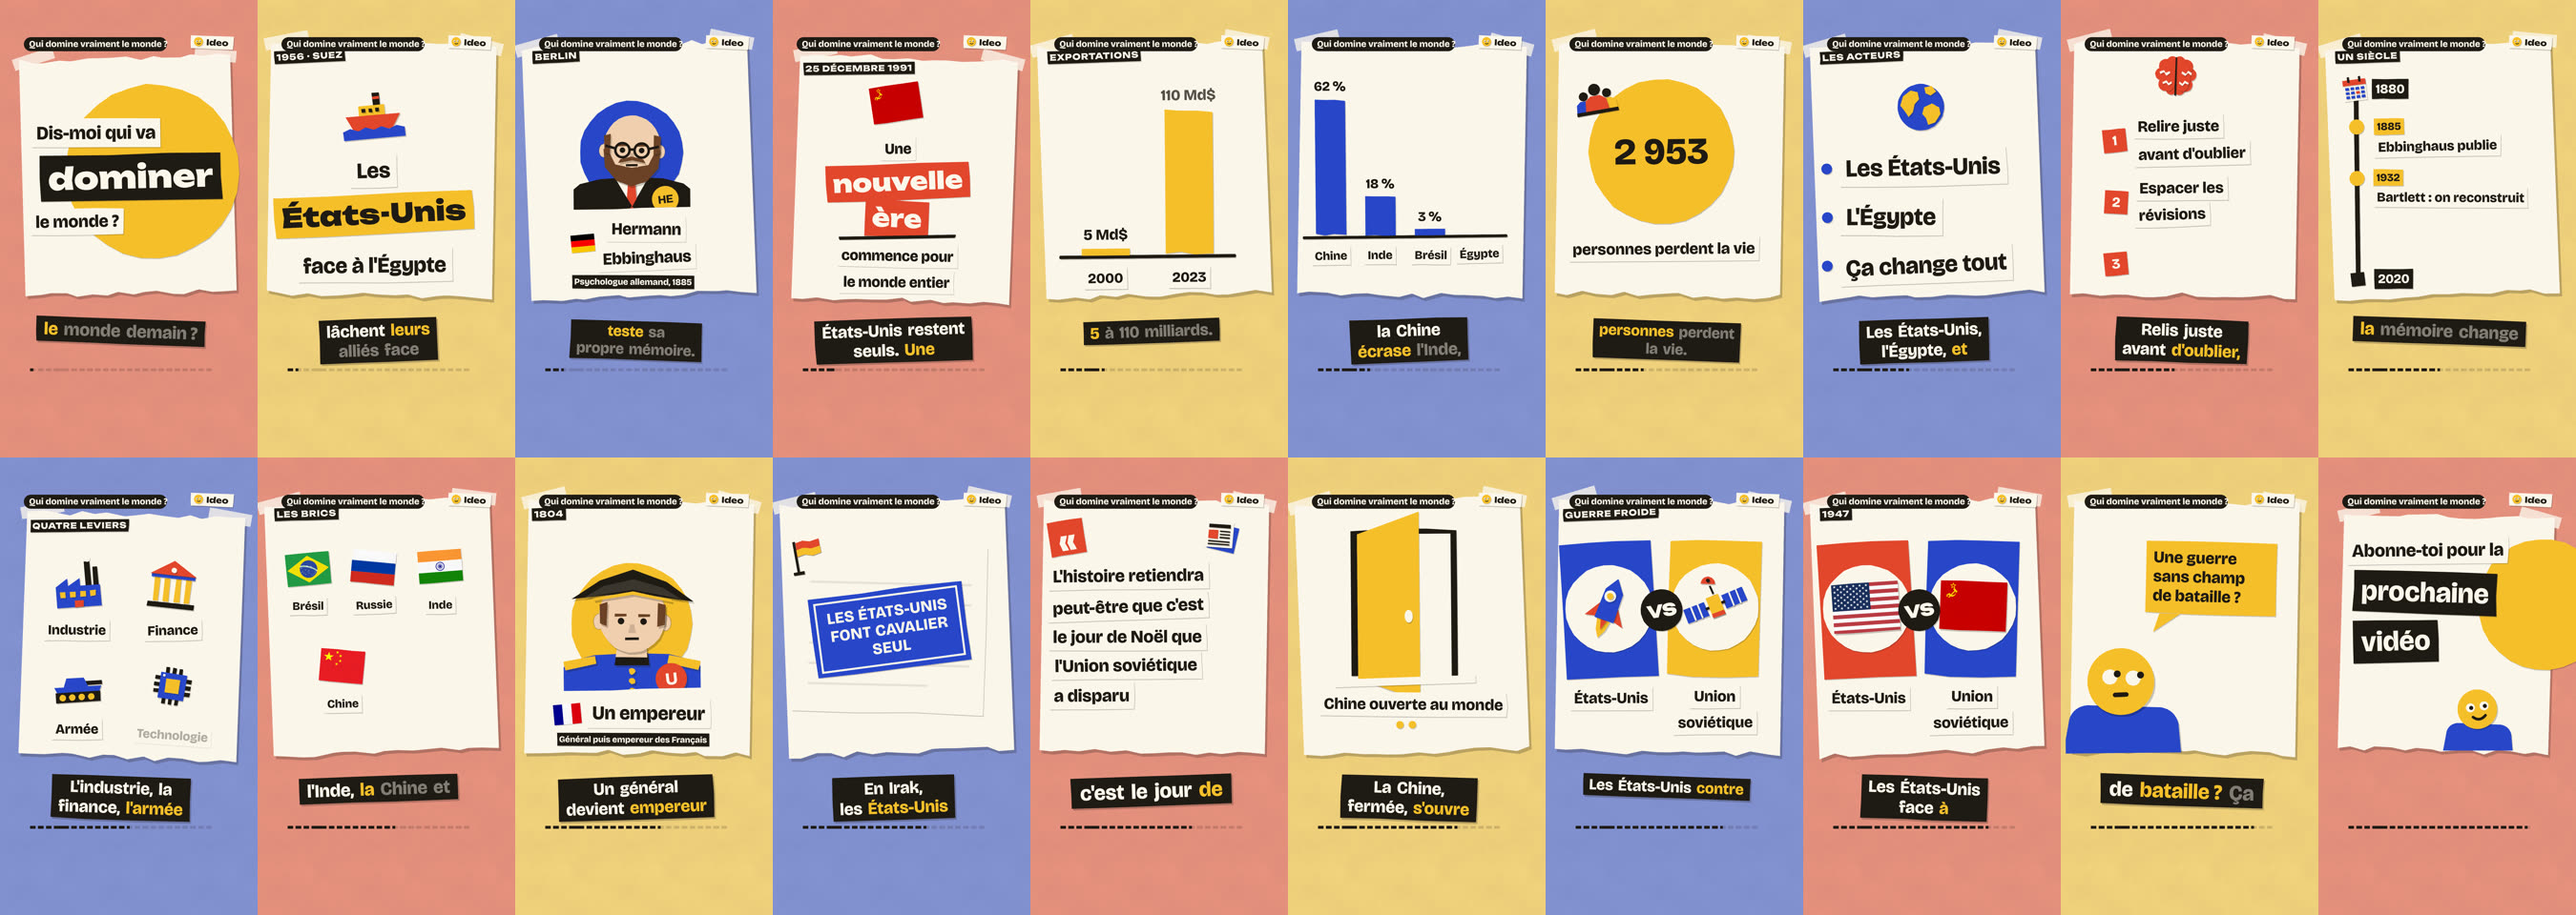
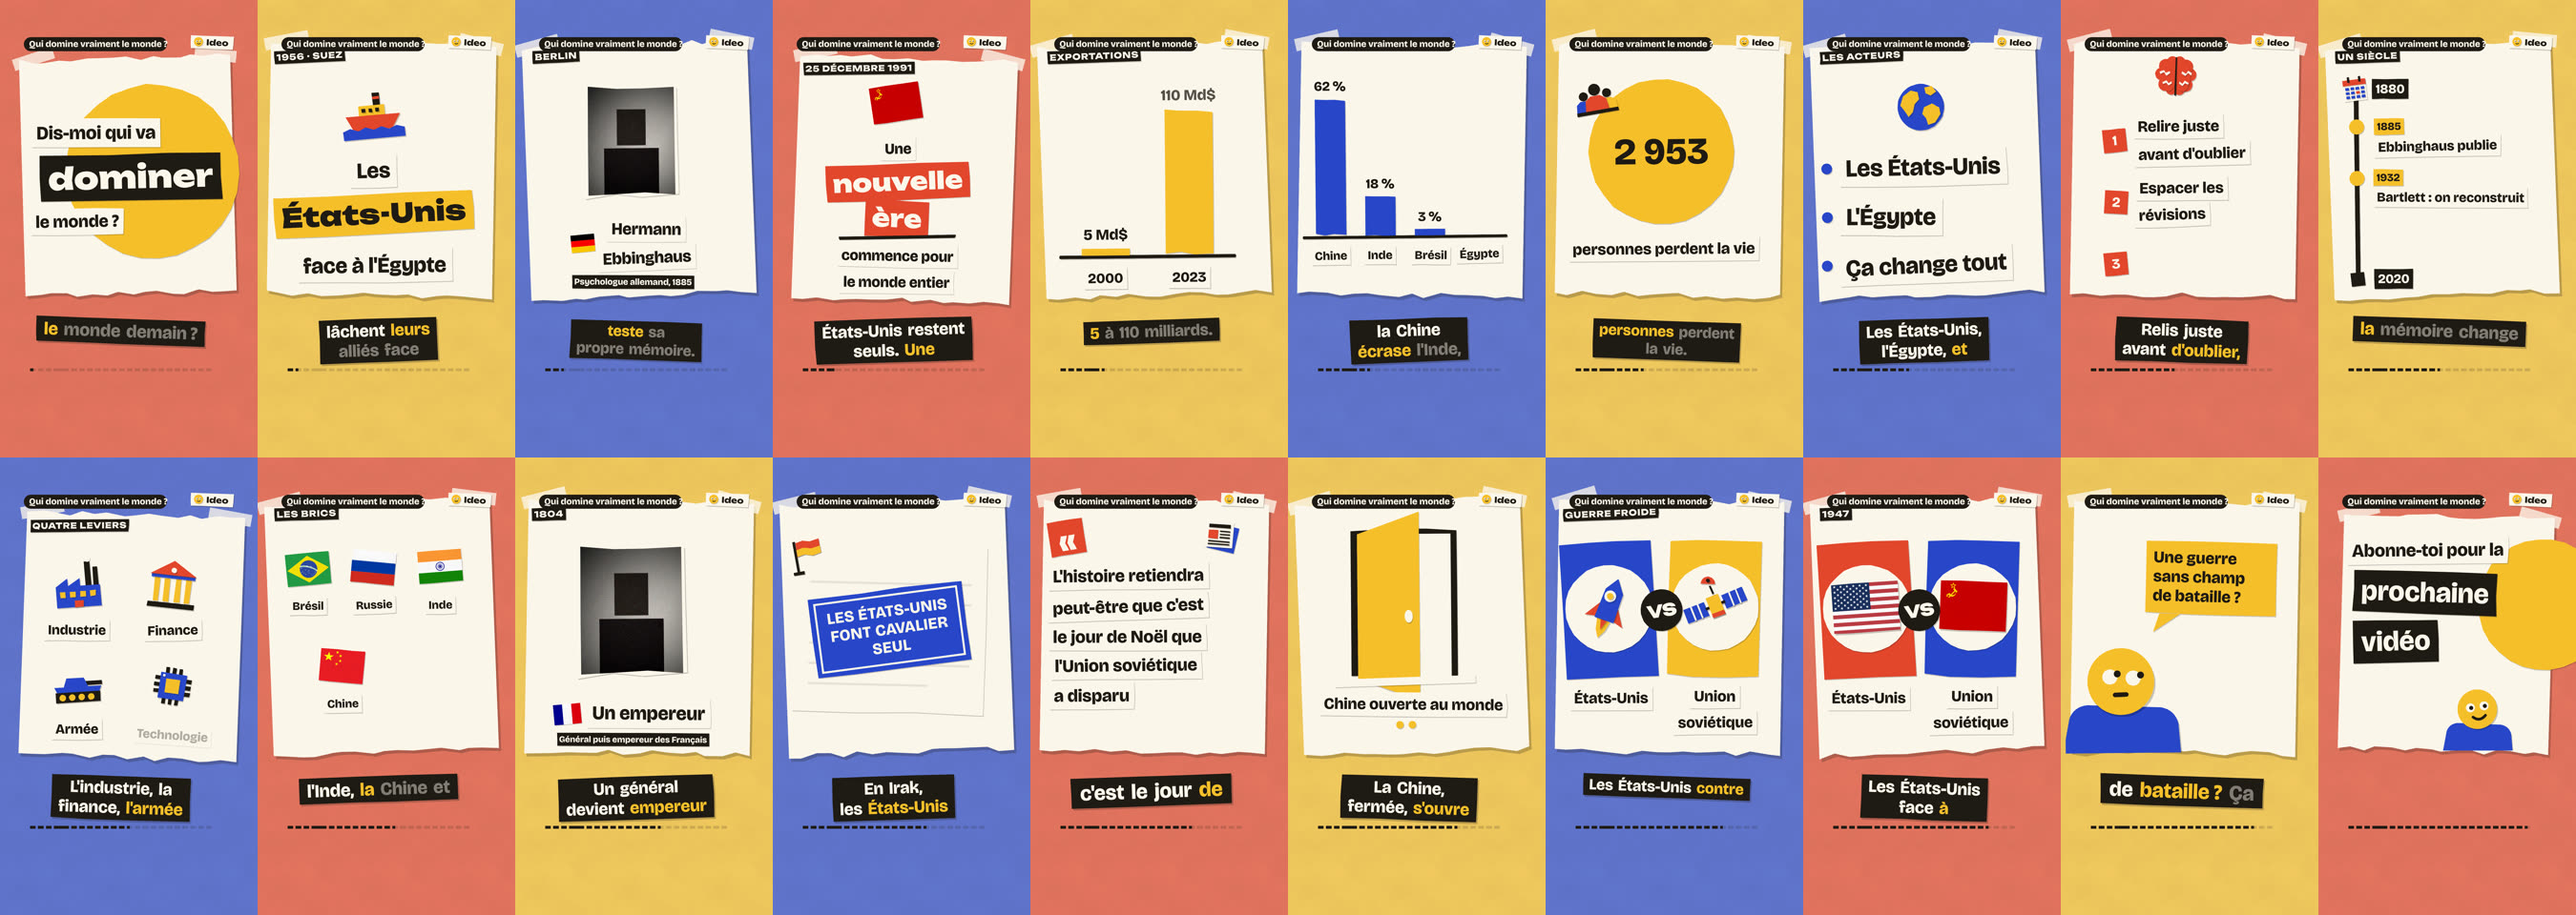
Fond moins pastel et cover correcte avec une vraie photo
Le fond passe de 45 % à 28 % de crème : la couleur de la scène reste
présente sans écraser le texte. Sur la cover, la photo d'une personne
historique était décalée et masquait le titre : elle est maintenant
dimensionnée correctement et épinglée sous la feuille sans la recouvrir.

Claude-Session: https://claude.ai/code/session_01LebPuenWeDcgqCGAEvrEXW

diff --git a/render/src/Cover.tsx b/render/src/Cover.tsx
@@ -87,6 +87,9 @@ export const SHEET_PAD_X = 64;
 export const SHEET_PAD_Y = 84;
 export const HEAD_LINE = 1.02;
 export const ART_OVERLAP = 150;
+export const PHOTO_OVERLAP = 40;
+
+export const artOverlap = (art: ArtKind): number => (art === "photo" ? PHOTO_OVERLAP : ART_OVERLAP);
 export const ART_RIGHT = 40;
 const LABEL_MAX_W = 640;
 
@@ -95,18 +98,20 @@ export const coverHeadFit = (head: string) =>
 
 export const coverSheetHeight = (lines: number, size: number): number => lines * size * HEAD_LINE + 2 * SHEET_PAD_Y;
 
-export const coverLayout = (sheetH: number, artH: number): { sheetY: number; artTop: number } => {
-  const total = sheetH - ART_OVERLAP + artH;
+export const coverLayout = (sheetH: number, artH: number, overlap = ART_OVERLAP): { sheetY: number; artTop: number } => {
+  const total = sheetH - overlap + artH;
   const sheetY = Math.round(Math.max(CROP_TOP, (CROP_TOP + CROP_BOTTOM - total) / 2));
-  return { sheetY, artTop: sheetY + sheetH - ART_OVERLAP };
+  return { sheetY, artTop: sheetY + sheetH - overlap };
 };
 
 const Art: React.FC<{ art: ArtKind; photo?: string | null; picto?: string | null; look?: CoverLook | null; accent: AccentColor }> = ({ art, photo, picto, look, accent }) => {
   const bustLook = React.useMemo(() => lookOf(look ?? {}), [look]);
   if (art === "photo") {
     return (
-      <div style={{ width: PHOTO_W, height: PHOTO_H, transform: `scale(${PHOTO_SCALE})`, transformOrigin: "0 0" }}>
-        <PhotoFrame src={photo as string} seed="cover-photo" />
+      <div style={{ position: "relative", width: PHOTO_W * PHOTO_SCALE, height: PHOTO_H * PHOTO_SCALE }}>
+        <div style={{ position: "absolute", left: 0, top: 0, width: PHOTO_W, height: PHOTO_H, transform: `scale(${PHOTO_SCALE})`, transformOrigin: "0 0" }}>
+          <PhotoFrame src={photo as string} seed="cover-photo" />
+        </div>
       </div>
     );
   }
@@ -139,7 +144,7 @@ export const Cover: React.FC<CoverProps> = ({ title, hook, picto, photo, look, w
   const art = artKind(photo, picto, look);
   const box = artBox(art);
   const sheetH = coverSheetHeight(head.lines.length, head.size);
-  const { sheetY, artTop } = coverLayout(sheetH, box.h);
+  const { sheetY, artTop } = coverLayout(sheetH, box.h, artOverlap(art));
   const edge = tornEdge("cover-sheet");
   return (
     <AbsoluteFill>

diff --git a/render/src/cover.test.ts b/render/src/cover.test.ts
@@ -1,5 +1,5 @@
 import { describe, expect, it } from "vitest";
-import { artKind, coverAccent, coverHeadFit, coverLayout, coverSheetHeight, coverText, DISK, PHOTO_SCALE, partTag, splitHook } from "./Cover";
+import { artKind, artOverlap, coverAccent, coverHeadFit, coverLayout, coverSheetHeight, coverText, DISK, PHOTO_SCALE, partTag, splitHook } from "./Cover";
 import { PHOTO_H } from "./scenes/PhotoFrame";
 import { accentCycle } from "./theme";
 
@@ -46,6 +46,13 @@ describe("cover", () => {
     const { sheetY, artTop } = coverLayout(coverSheetHeight(head.lines.length, head.size), DISK);
     expect(sheetY).toBeGreaterThanOrEqual(240);
     expect(artTop + DISK).toBeLessThanOrEqual(1920 - 240);
+  });
+
+  it("lets a real photo barely touch the title sheet so the title stays readable", () => {
+    expect(artOverlap("photo")).toBeLessThan(artOverlap("picto"));
+    const sheetH = coverSheetHeight(1, 132);
+    const { sheetY, artTop } = coverLayout(sheetH, DISK, artOverlap("photo"));
+    expect(artTop).toBeGreaterThanOrEqual(sheetY + sheetH - 40);
   });
 
   it("splits the hook at its first comma or colon into a big title and a smaller line", () => {

diff --git a/render/src/theme.ts b/render/src/theme.ts
@@ -102,7 +102,7 @@ export type AccentColor = "red" | "yellow" | "blue";
 export const accentCycle: readonly AccentColor[] = ["red", "yellow", "blue"];
 
 export const GROUNDS: Record<"light" | Mood, { toward: PaperColor; amount: number }> = {
-  light: { toward: "cream", amount: 0.45 },
+  light: { toward: "cream", amount: 0.28 },
   dark: { toward: "ink", amount: 0.35 },
 };
 let ground = GROUNDS.light;

diff --git a/docs/direction-artistique/README.md b/docs/direction-artistique/README.md
@@ -31,11 +31,12 @@ Limites :
 ## 2. Ce qui a changé dans Ideo (PR #37)
 
 **Direction artistique « papier découpé abouti »** (choisie parmi 3 maquettes de cover) :
-- Fond plein cadre en version **pastel** de la couleur de la scène. Il change à chaque scène, et il est assombri en ambiance sombre. La version vive prenait trop de place : voir `fonds-compares.jpg`.
+- Fond plein cadre en version **adoucie** de la couleur de la scène (28 % de crème, `GROUNDS` dans `render/src/theme.ts`). Il change à chaque scène, et il est assombri en ambiance sombre. La version vive prenait trop de place, la version à 45 % était trop pastel : voir `fonds-compares.jpg`, dont la ligne du bas montre l'ancien réglage à 45 %.
 - Le contenu est posé sur une feuille crème déchirée et scotchée (`render/src/paper/Sheet.tsx`). Le texte n'est jamais posé directement sur la couleur.
 - Les mots-clés (accroche, titres, étiquettes) sont en Unbounded.
 - Sous-titres : 1 à 2 mots (`MAX_GROUP = 2`), très gros, dans une étiquette noire, avec le mot prononcé en jaune.
 - Cover : titre géant sur la feuille, suite de l'accroche dans une étiquette noire, dessin qui déborde, le tout centré dans le recadrage 3:4 de la grille du profil.
+- Personnage historique ou connu : la vraie photo (`ideo photo`) reste utilisée. Dans les scènes, elle est encadrée sur la feuille (carte de personnage). Sur la cover, elle est épinglée sous le titre sans le recouvrir. Les deux cas ont été rendus avec une image de test.
 
 **Rythme :**
 - **Recadrage :** l'image se recadre net à chaque élément qui apparaît (`render/src/scenes/punch.ts`), et change au moins toutes les 2,5 s (`BEAT_GAP`).
@@ -49,7 +50,7 @@ Images : `scenes-avant.jpg`, `scenes-apres.jpg`, `covers.jpg`, `fonds-compares.j
 ## 3. Reste à faire
 
 1. **Faire une vraie vidéo de bout en bout sur le Mac** (`prepare` → plan → `produce`), puis la mesurer avec `python -m ideo rythme <job>`. Rien n'a encore été vérifié sur une vraie voix : sous-titres de 1 à 2 mots, recadrages, carton de chapitre, silence de suspense. Objectif : au moins 15 plans/min.
-2. **Cover avec une vraie photo de personne :** seuls les cas dessin, buste dessiné, série et ambiance sombre ont été rendus, pas le cas photo.
+2. **Vérifier une cover et une carte de personnage avec une vraie photo d'archive.** Le cadrage a été validé avec une image de test, pas avec une vraie photo.
 3. **Carton de chapitre quand le `kicker` n'est qu'une date** (« 1991 ») : le carton affiche alors juste la date. Décider s'il faut prendre le nom de l'acte ailleurs.
 4. **Si les recadrages ne suffisent pas,** demander des scènes plus courtes dans `plan-guide.md`. Le repère actuel est 6-9 s, soit 18-26 mots ; on pourrait passer à 4-6 s. Cela coûte plus de tokens au moment d'écrire le plan.
 5. **Outil `rythme` sur les vidéos très sombres :** améliorer la détection de coupes, par exemple en éclaircissant l'image avant le filtre de scène.
